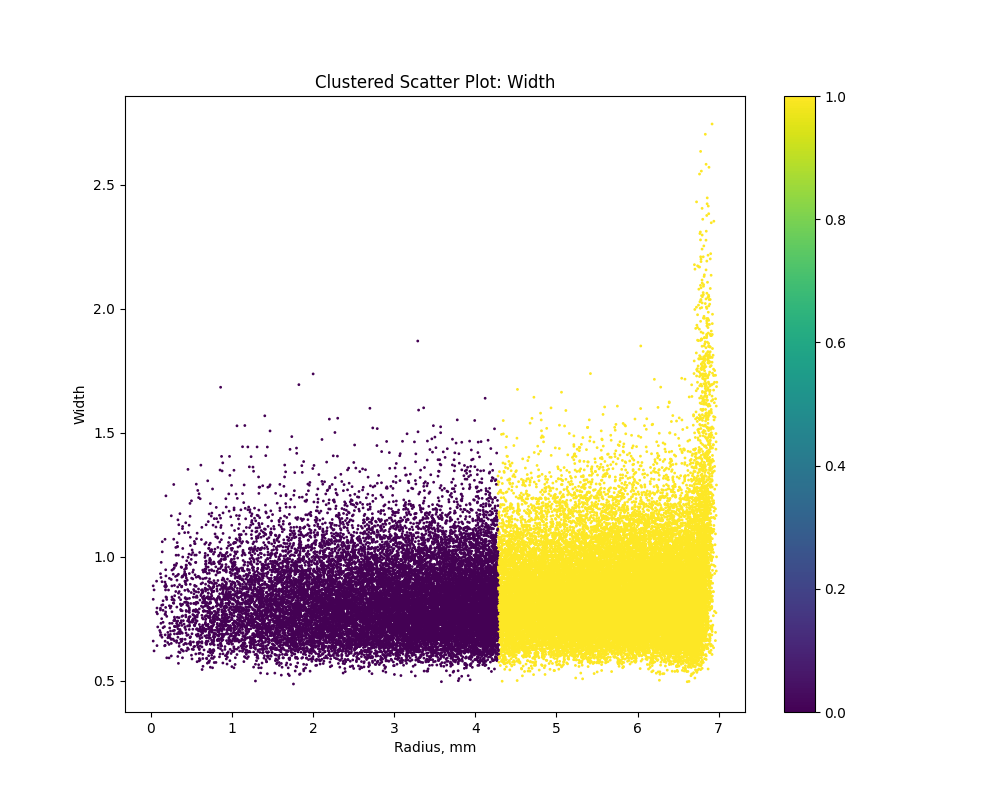
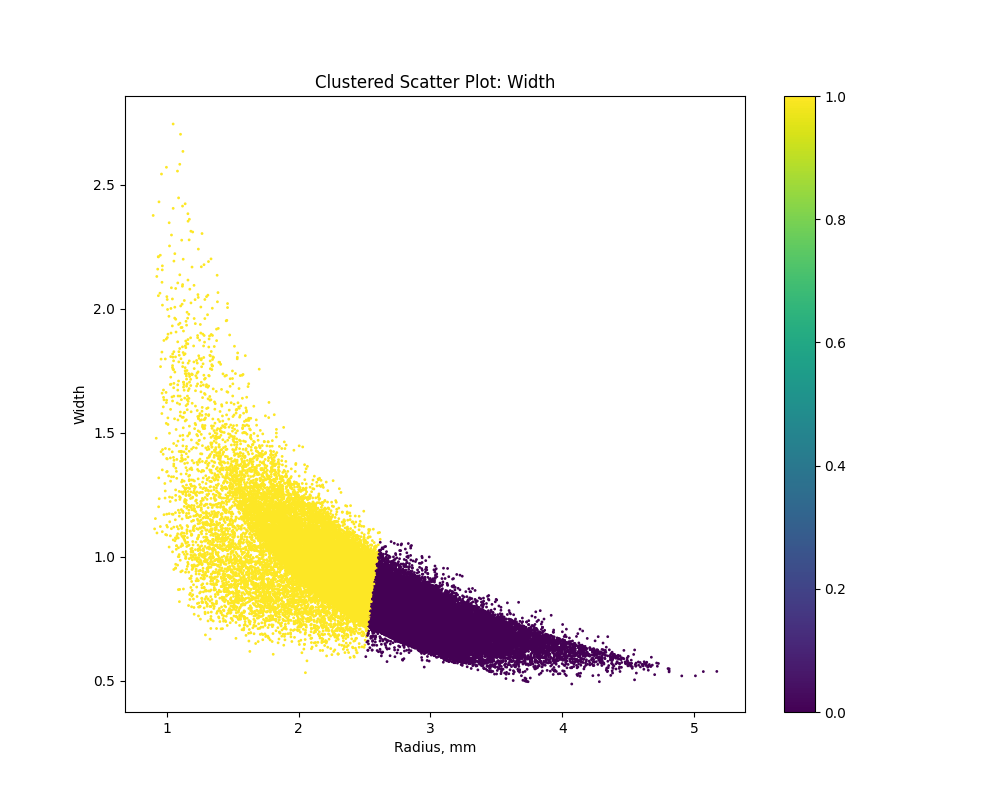
:feat: k-means cluster plots : Aspect ratio vs keys

Changed region(s): [[0.155, 0.2812, 0.713, 0.875]]

diff --git a/layer_kde.py b/layer_kde.py
@@ -65,13 +65,13 @@ if __name__ == '__main__':
 
     
     cx, cy = df[:, dt.mean(f.X)][0, 0], df[:, dt.mean(f.Y)][0, 0]
-    df['Radius'] = df[:, dt.math.sqrt((f.X - cx)**2 + (f.Y - cy)**2)]
+    # df['Radius'] = df[:, dt.math.sqrt((f.X - cx)**2 + (f.Y - cy)**2)]
     df['Aspect Ratio'] = df[:, f.Length / f.Width]
-    keys.append('Aspect Ratio')
+    # keys.append('Aspect Ratio')
     
     for key in keys:
         # サンプルデータの生成
-        x = df['Radius'].to_numpy()
+        x = df['Aspect Ratio'].to_numpy()
         y = df[key].to_numpy()
         #data = np.vstack((x, y)).T
         data = np.hstack((x, y))
